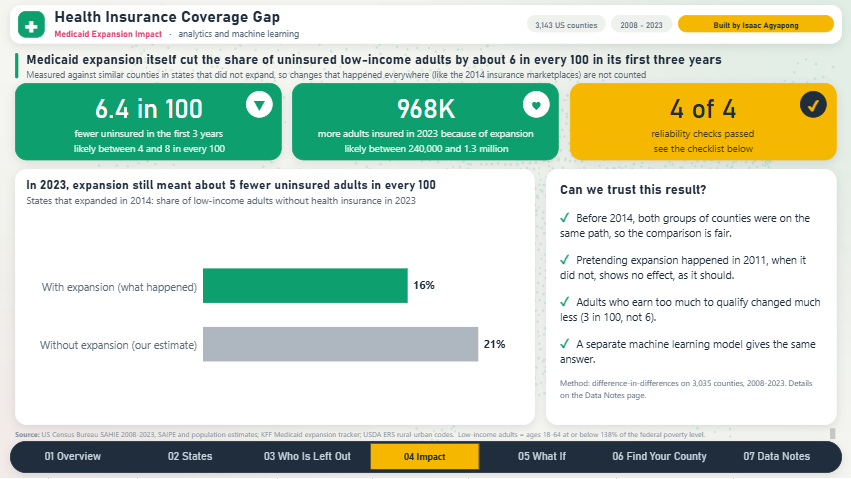
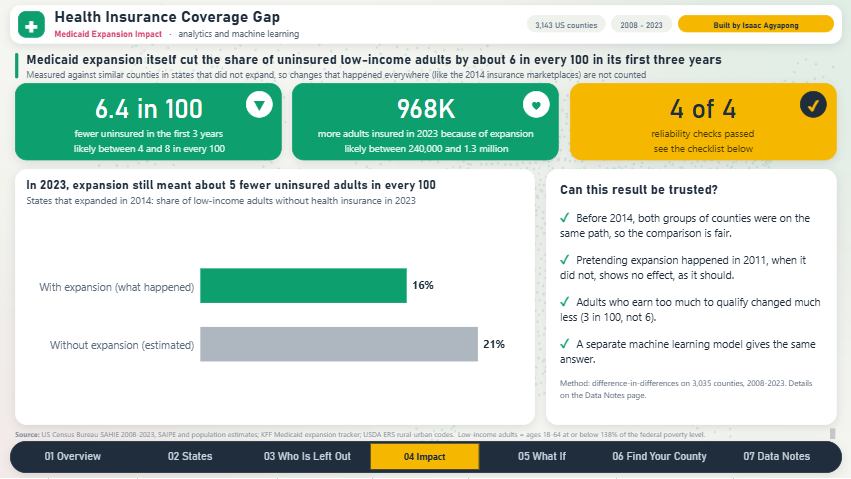
Wording: solo project, first person singular (no we/our)

diff --git a/Python/08_build_powerbi_project.py b/Python/08_build_powerbi_project.py
@@ -925,7 +925,7 @@ def build_pages():
                  **labels(26, labelDisplayUnits=lit("1D")), "dataPoint": fill_by("scenario_2023", "Scenario Colour")}))
     check = lambda t: [("✓  ", 14, True, EXP), (t, 12, False, INK)]
     p4.add("checks", X0 + 796, TOP + 128, W - 796, 384, textbox(
-        [("Can we trust this result?", 15, True, INK, FONT), ("", 6, False, INK),
+        [("Can this result be trusted?", 15, True, INK, FONT), ("", 6, False, INK),
          check("Before 2014, both groups of counties were on the same path, so the comparison is fair."),
          ("", 6, False, INK),
          check("Pretending expansion happened in 2011, when it did not, shows no effect, as it should."),
@@ -954,7 +954,7 @@ def build_pages():
     p5.add("validation", X0 + 396, TOP + 128, 340, 384, chart(
         "clusteredColumnChart", {"Category": [C("ml_validation", "label", "Counties, by the model's ranking")],
                                  "Y": [MN("Actual Drop", "Fewer uninsured in every 100 (what really happened)")]},
-        "We tested the model on states it had never seen",
+        "I tested the model on states it had never seen",
         "The counties it ranked highest really did gain the most. Bars = fewer uninsured in every 100 after expansion.",
         sort=(C("ml_validation", "label"), "Ascending"),
         objects={**axes(show_value=False, cat_size=10), **labels(12), "dataPoint": fill_by("ml_validation", "Validation Colour")}))
@@ -1014,7 +1014,7 @@ def build_pages():
             "Uninsured: has no health insurance of any kind",
             "Medicaid expansion: a state lets these adults get Medicaid; 40 states and DC have done it since 2014",
             "\"6 in 100\": for every 100 low-income adults, 6 fewer are uninsured",
-            "Would gain coverage: our estimate of how many more adults would be insured if the state expanded"]),
+            "Would gain coverage: the model's estimate of how many more adults would be insured if the state expanded"]),
         ("Where the data comes from", [
             "US Census Bureau Small Area Health Insurance Estimates (SAHIE), 2008-2023, every county",
             "KFF tracker of when each state expanded Medicaid",

diff --git a/Python/07_export_powerbi.py b/Python/07_export_powerbi.py
@@ -95,7 +95,7 @@ def main():
     wi["year"] = wi.year.astype(int)
     save(wi[["year", "actual", "without_expansion"]], "what_if")
     last = wi.set_index("year").loc[2023]
-    save(pd.DataFrame({"scenario": ["With expansion (what happened)", "Without expansion (our estimate)"],
+    save(pd.DataFrame({"scenario": ["With expansion (what happened)", "Without expansion (estimated)"],
                        "rate": [last.actual, last.without_expansion], "order": [1, 2]}), "scenario_2023")
 
     # ---- causal results (difference-in-differences)
